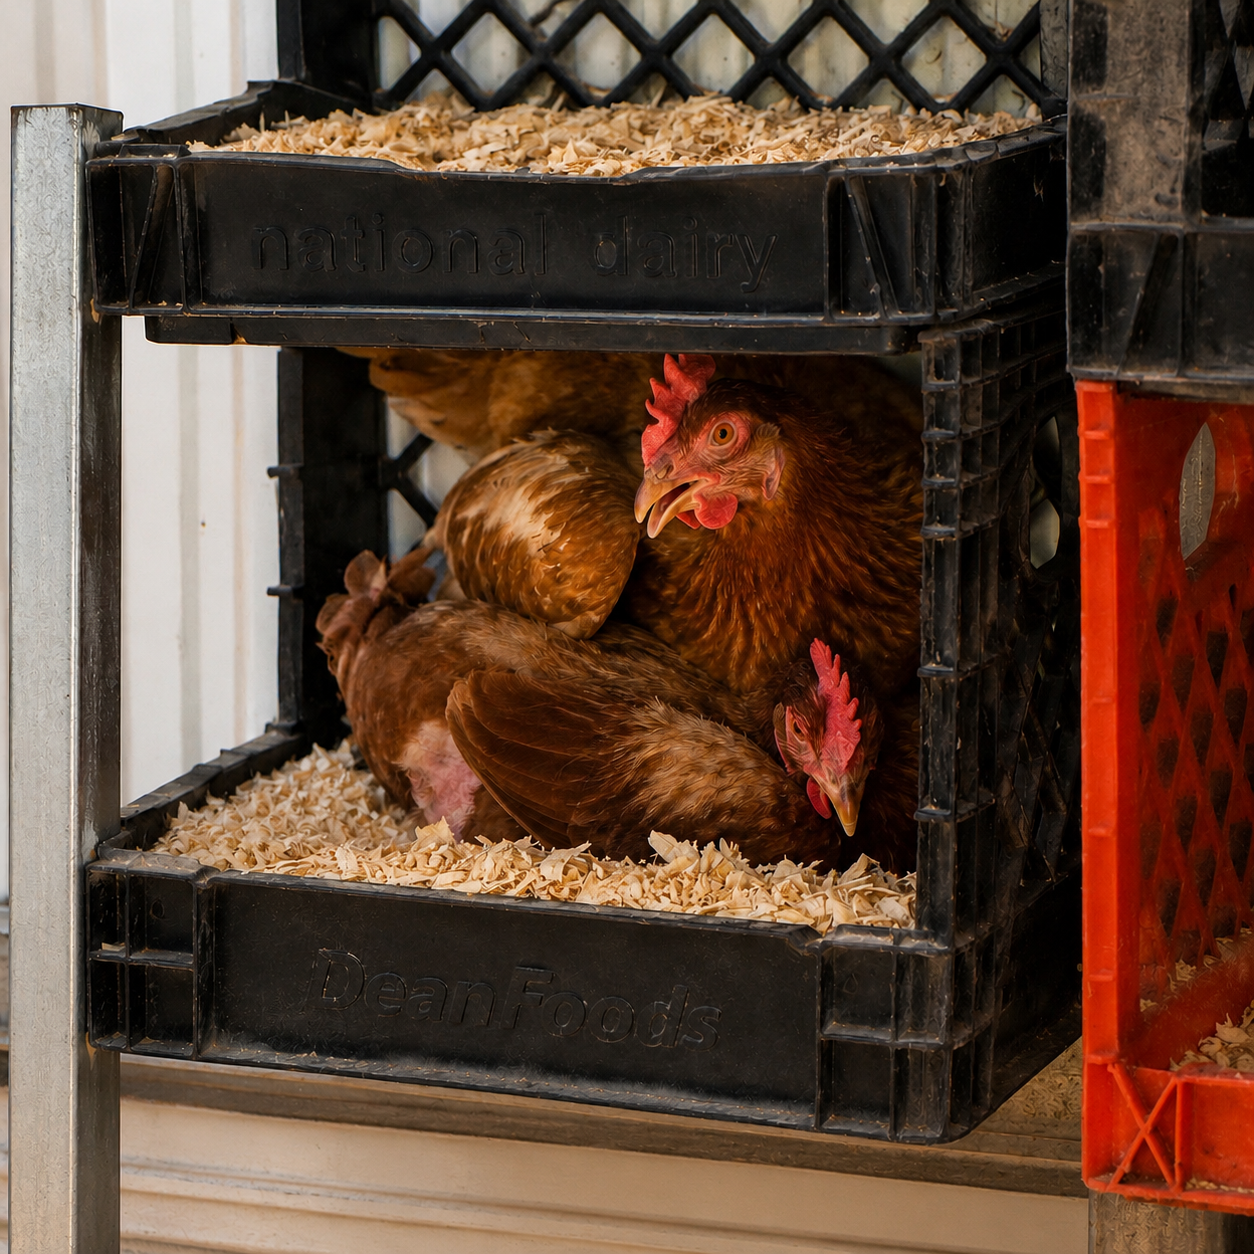
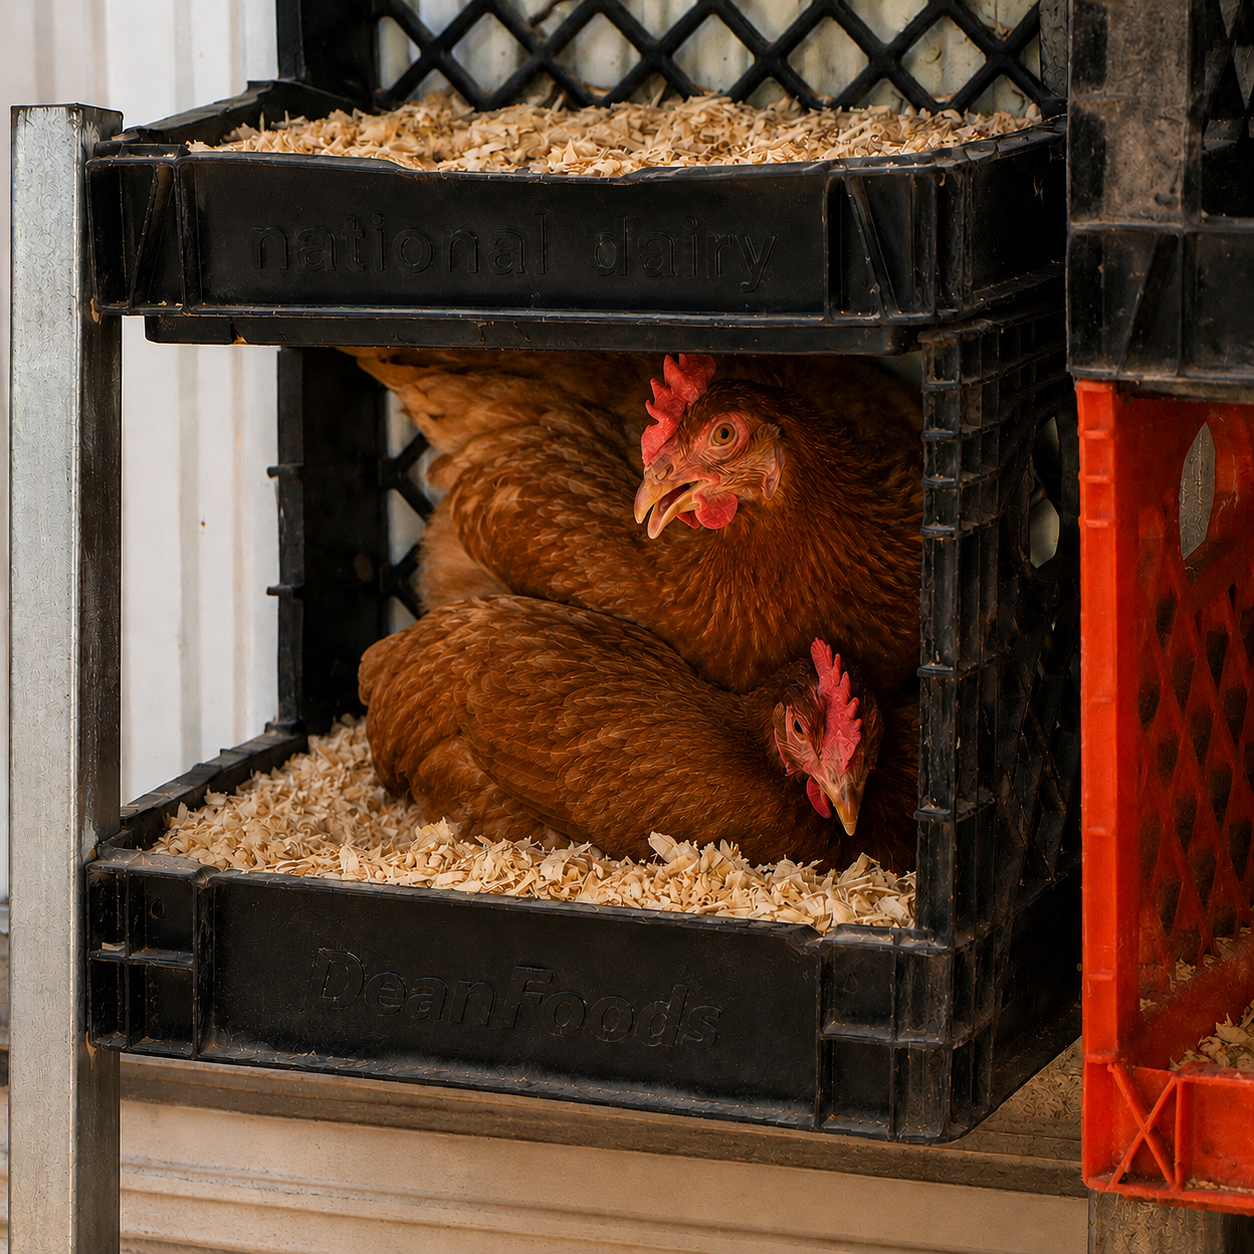
update website

diff --git a/gallery-es.html b/gallery-es.html
@@ -13,7 +13,7 @@
 
   <link href="https://fonts.googleapis.com/css2?family=Poppins:wght@400;500;600;700;800;900&display=swap" rel="stylesheet">
 
-  <link rel="stylesheet" href="css/style.css?v=9" />
+  <link rel="stylesheet" href="css/style.css?v=10" />
 
 </head>
 
@@ -243,7 +243,7 @@ Gallinas Libres
 
 <div class="gallery-card">
 
-<img src="images/poultry/laying hens.PNG"
+<img src="images/poultry/laying hens.png?v=20260705120303"
 alt="Gallinas ponedoras descansando">
 
 <h3>

diff --git a/gallery.html b/gallery.html
@@ -10,7 +10,7 @@
   <link rel="preconnect" href="https://fonts.gstatic.com" crossorigin>
   <link href="https://fonts.googleapis.com/css2?family=Poppins:wght@400;500;600;700;800;900&display=swap" rel="stylesheet">
 
-  <link rel="stylesheet" href="css/style.css?v=9" />
+  <link rel="stylesheet" href="css/style.css?v=10" />
 </head>
 
 <body>
@@ -75,7 +75,7 @@
     <h3 class="gallery-category">Fresh Poultry</h3>
     <div class="gallery-grid">
       <div class="gallery-card"><img src="images/poultry/fresh chicken.PNG" alt="Free range chickens on the farm"><h3>Free Range Flock</h3></div>
-      <div class="gallery-card"><img src="images/poultry/laying hens.PNG" alt="Laying hens resting in the coop"><h3>Laying Hens</h3></div>
+      <div class="gallery-card"><img src="images/poultry/laying hens.png?v=20260705120303" alt="Laying hens resting in the coop"><h3>Laying Hens</h3></div>
       <div class="gallery-card"><img src="images/poultry/chickens eating.PNG" alt="Chickens eating in the coop"><h3>Daily Care</h3></div>
       <div class="gallery-card"><img src="images/poultry/whole chicken (packed).jpeg?v=20260705" alt="Prepared whole chickens packed and ready by advance order"><h3>Packed Whole Chicken</h3></div>
       <div class="gallery-card"><img src="images/poultry/Fresh Whole Chicken.png?v=20260705" alt="Fresh whole chickens prepared by advance order"><h3>Fresh Whole Chicken</h3></div>

diff --git a/about-es.html b/about-es.html
@@ -13,7 +13,7 @@
 
   <link href="https://fonts.googleapis.com/css2?family=Poppins:wght@400;500;600;700;800;900&display=swap" rel="stylesheet">
 
-  <link rel="stylesheet" href="css/style.css?v=9" />
+  <link rel="stylesheet" href="css/style.css?v=10" />
 </head>
 
 <body>

diff --git a/about.html b/about.html
@@ -11,7 +11,7 @@
   <link rel="preconnect" href="https://fonts.gstatic.com" crossorigin>
   <link href="https://fonts.googleapis.com/css2?family=Poppins:wght@400;500;600;700;800;900&display=swap" rel="stylesheet">
 
-  <link rel="stylesheet" href="css/style.css?v=9" />
+  <link rel="stylesheet" href="css/style.css?v=10" />
 </head>
 
 <body>

diff --git a/contact-es.html b/contact-es.html
@@ -8,7 +8,7 @@
   <link rel="preconnect" href="https://fonts.googleapis.com">
   <link rel="preconnect" href="https://fonts.gstatic.com" crossorigin>
   <link href="https://fonts.googleapis.com/css2?family=Poppins:wght@400;500;600;700;800;900&display=swap" rel="stylesheet">
-  <link rel="stylesheet" href="css/style.css?v=9" />
+  <link rel="stylesheet" href="css/style.css?v=10" />
 </head>
 <body>
   <header class="site-header">

diff --git a/contact.html b/contact.html
@@ -8,7 +8,7 @@
   <link rel="preconnect" href="https://fonts.googleapis.com">
   <link rel="preconnect" href="https://fonts.gstatic.com" crossorigin>
   <link href="https://fonts.googleapis.com/css2?family=Poppins:wght@400;500;600;700;800;900&display=swap" rel="stylesheet">
-  <link rel="stylesheet" href="css/style.css?v=9" />
+  <link rel="stylesheet" href="css/style.css?v=10" />
 </head>
 <body>
   <header class="site-header">

diff --git a/css/style.css b/css/style.css
@@ -640,7 +640,7 @@ section:not(.hero):not(.page-hero):not(.about-hero) {
 .availability-band {
   background:
     linear-gradient(135deg, rgba(7, 18, 12, 0.98), rgba(22, 53, 31, 0.96)),
-    url("../images/poultry/laying hens.PNG");
+    url("../images/poultry/laying hens.png?v=20260705120303");
   background-position: center;
   background-size: cover;
   color: var(--white);

diff --git a/index-es.html b/index-es.html
@@ -11,7 +11,7 @@
   <link rel="preconnect" href="https://fonts.gstatic.com" crossorigin>
   <link href="https://fonts.googleapis.com/css2?family=Poppins:wght@400;500;600;700;800;900&display=swap" rel="stylesheet">
 
-  <link rel="stylesheet" href="css/style.css?v=9" />
+  <link rel="stylesheet" href="css/style.css?v=10" />
 </head>
 
 <body>

diff --git a/index.html b/index.html
@@ -11,7 +11,7 @@
   <link rel="preconnect" href="https://fonts.gstatic.com" crossorigin>
   <link href="https://fonts.googleapis.com/css2?family=Poppins:wght@400;500;600;700;800;900&display=swap" rel="stylesheet">
 
-  <link rel="stylesheet" href="css/style.css?v=9" />
+  <link rel="stylesheet" href="css/style.css?v=10" />
 </head>
 
 <body>

diff --git a/products-es.html b/products-es.html
@@ -13,7 +13,7 @@
 
   <link href="https://fonts.googleapis.com/css2?family=Poppins:wght@400;500;600;700;800;900&display=swap" rel="stylesheet">
 
-  <link rel="stylesheet" href="css/style.css?v=9" />
+  <link rel="stylesheet" href="css/style.css?v=10" />
 
 </head>
 

diff --git a/products.html b/products.html
@@ -11,7 +11,7 @@
   <link rel="preconnect" href="https://fonts.gstatic.com" crossorigin>
   <link href="https://fonts.googleapis.com/css2?family=Poppins:wght@400;500;600;700;800;900&display=swap" rel="stylesheet">
 
-  <link rel="stylesheet" href="css/style.css?v=9" />
+  <link rel="stylesheet" href="css/style.css?v=10" />
 </head>
 
 <body>